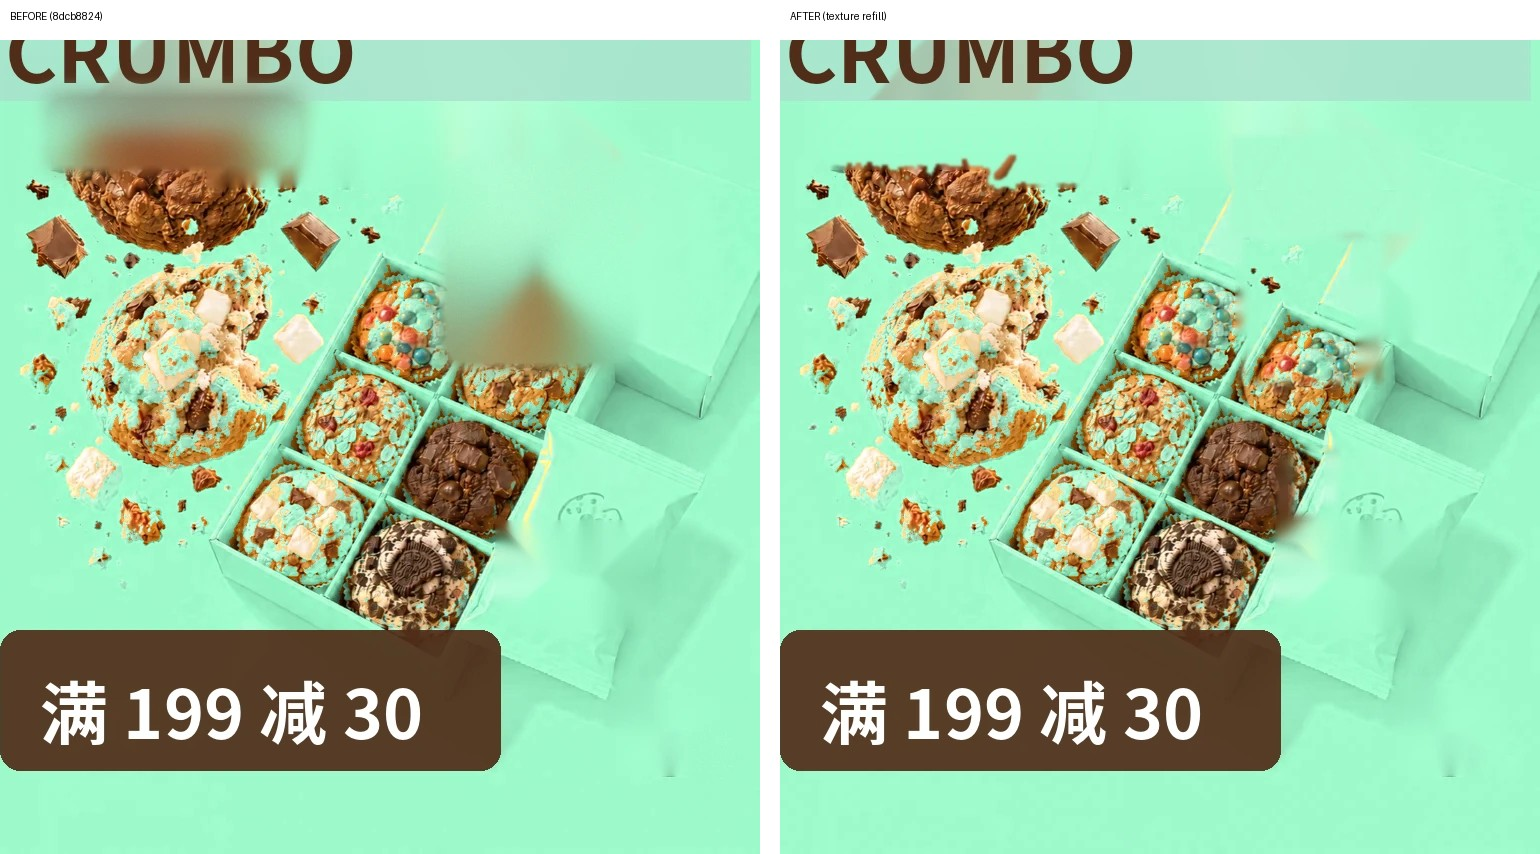
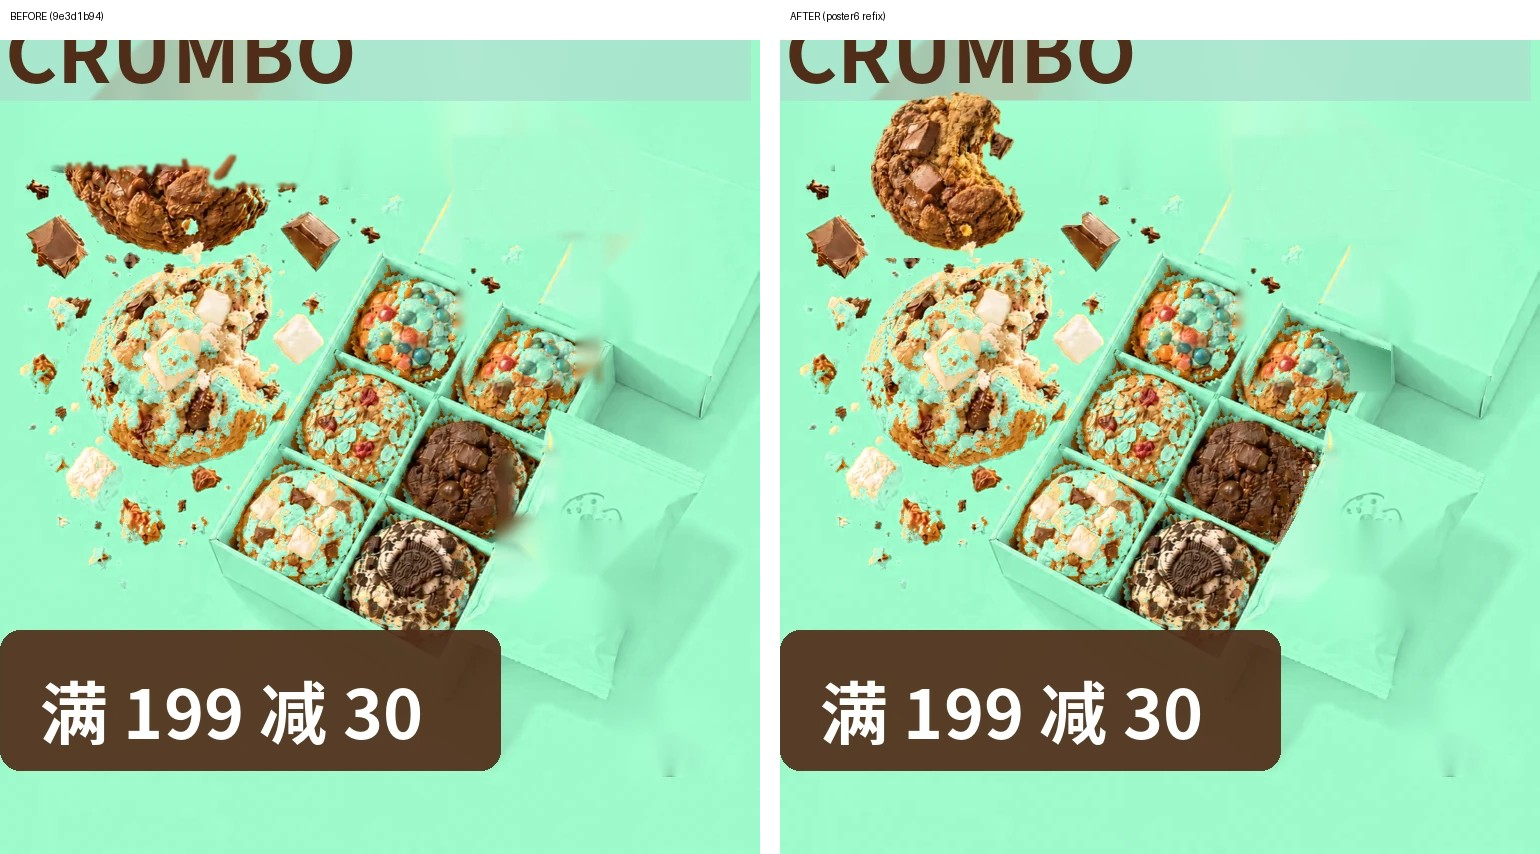
673 promo ex01 poster6: full domed top-left cookie from gold (cookie pixels only), exemplar/plane refill of top-right & chocolate cookie edges, packet and lid smears

diff --git a/docs/design/673/next/p6_fix.py b/docs/design/673/next/p6_fix.py
@@ -1,0 +1,87 @@
+# poster6 only: restore a complete domed top-left cookie from gold pixels (cookie only, no gold copy), mirror-clone soft cookie edges
+import numpy as np,cv2;from PIL import Image
+a=np.array(Image.open('promo_ex01_fixed.png').convert('RGB')).astype(np.float32);g=np.array(Image.open('gold_ex01.png').convert('RGB'))
+H,W=a.shape[:2];rng=np.random.default_rng(7)
+# 1) clear old sliced half + debris to mint (per-row median of clean column band)
+y0,y1,x0,x1=1462,1618,1855,2102
+reg=np.zeros((H,W),bool);reg[y0:y1,x0:x1]=1;reg[1575:,:1895]=0;reg[1585:,2078:]=0
+mint=np.median(a[y0:y1,2125:2200],1)
+for y in range(y0,y1):
+    m=reg[y];a[y,m]=mint[y-y0]+rng.normal(0,1.2,(m.sum(),3))
+# 2) gold cookie mask (brown/cream, not yellow bg, not olive BONBUN letters)
+gc=g[1385:1625,1850:2080];hv=cv2.cvtColor(gc,cv2.COLOR_RGB2HSV)
+yel=(hv[...,0]>=21)&(hv[...,0]<=36)&(hv[...,1]>110)
+m=(~yel).astype(np.uint8)
+m=cv2.morphologyEx(m,cv2.MORPH_OPEN,np.ones((3,3),np.uint8))
+n,l,st,_=cv2.connectedComponentsWithStats(m);k=1+np.argmax(st[1:,4]);m=(l==k).astype(np.uint8)
+cs,_=cv2.findContours(m,cv2.RETR_EXTERNAL,cv2.CHAIN_APPROX_NONE);m=np.zeros_like(m);cv2.drawContours(m,cs,-1,1,-1)
+# drop yellow-ish spill fringe
+m=cv2.erode(m,np.ones((2,2),np.uint8))
+ys,xs=np.nonzero(m);by0,by1,bx0,bx1=ys.min(),ys.max()+1,xs.min(),xs.max()+1
+ck=gc[by0:by1,bx0:bx1].astype(np.float32);mk=m[by0:by1,bx0:bx1].astype(np.float32)
+s=0.74;nw,nh=int(ck.shape[1]*s),int(ck.shape[0]*s)
+ck=cv2.resize(ck,(nw,nh),interpolation=cv2.INTER_AREA);mk=cv2.resize(mk,(nw,nh),interpolation=cv2.INTER_AREA)
+mk=cv2.GaussianBlur(mk,(0,0),0.6)[...,None]
+# despill yellow edge: pull fringe toward mint
+cx,by=1968,1617;px,py=cx-nw//2,by-nh
+a[py:py+nh,px:px+nw]=ck*mk+a[py:py+nh,px:px+nw]*(1-mk)
+print('cookie box',px,py,px+nw,py+nh)
+# 2b) soft contact shadow none (gold has none)
+def exemplar(poly,P=9,R=70,cb=None):
+    """Criminisi-style patch inpaint: fill hand-drawn polygon from best-matching sharp local patches (no blur)."""
+    global a
+    M=np.zeros((H,W),np.uint8);cv2.fillPoly(M,[np.array(poly,np.int32)],1);M=M.astype(bool)
+    ys,xs=np.nonzero(M);Y0,Y1,X0,X1=ys.min()-R,ys.max()+R,xs.min()-R,xs.max()+R
+    A=a[Y0:Y1,X0:X1].copy();m=M[Y0:Y1,X0:X1].copy();h=P//2
+    from numpy.lib.stride_tricks import sliding_window_view as sw
+    valid=~sw(m,(P,P)).any((2,3))
+    if cb is not None:
+        cm=np.zeros(m.shape,bool);cm[max(cb[1]-Y0,0):cb[3]-Y0,max(cb[0]-X0,0):cb[2]-X0]=1;valid&=sw(cm,(P,P)).all((2,3))
+    SW=sw(A,(P,P),axis=(0,1))  # (y,x,3,P,P)
+    vy,vx=np.nonzero(valid);cand=SW[vy,vx]  # N,3,P,P
+    while m.any():
+        k=cv2.filter2D((~m).astype(np.float32),-1,np.ones((P,P)))
+        fr=m&(cv2.dilate((~m).astype(np.uint8),np.ones((3,3)))>0)
+        fy,fx=np.nonzero(fr);t=np.argmax(k[fy,fx]);cy,cx=fy[t],fx[t]
+        cy=np.clip(cy,h,A.shape[0]-h-1);cx=np.clip(cx,h,A.shape[1]-h-1)
+        tp=A[cy-h:cy+h+1,cx-h:cx+h+1].transpose(2,0,1);kn=~m[cy-h:cy+h+1,cx-h:cx+h+1]
+        d=(((cand-tp)**2)*kn).sum((1,2,3));b=np.argmin(d)
+        src=cand[b].transpose(1,2,0);u=m[cy-h:cy+h+1,cx-h:cx+h+1]
+        A[cy-h:cy+h+1,cx-h:cx+h+1][u]=src[u];m[cy-h:cy+h+1,cx-h:cx+h+1]=False
+    a[Y0:Y1,X0:X1]=A
+def planefill(x0,y0,x1,y1,inmask,ring=8,fe=8,crisp=()):
+    """smooth surface (wall/lid/packet face): LSQ colour plane from clean ring + fine grain, feathered except on 'crisp' sides"""
+    Y0,Y1,X0,X1=y0-ring,y1+ring,x0-ring,x1+ring;yy,xx=np.mgrid[Y0:Y1,X0:X1];sub=a[Y0:Y1,X0:X1]
+    inR=inmask(xx,yy)&(xx>=x0)&(xx<x1)&(yy>=y0)&(yy<y1);hv=cv2.cvtColor(np.clip(sub,0,255).astype(np.uint8),cv2.COLOR_RGB2HSV);cl=~inR&inmask(xx,yy)&(hv[...,0]>60)&(hv[...,0]<95)&(hv[...,1]>40)
+    co,*_=np.linalg.lstsq(np.stack([np.ones(cl.sum()),xx[cl],yy[cl]],1),sub[cl],rcond=None)
+    F=np.stack([np.ones_like(xx),xx,yy],-1).astype(np.float32)@co+rng.normal(0,1.0,sub.shape)
+    d=[yy-y0,x1-xx,y1-yy,xx-x0];d=[v for k,v in zip('tRbl',d) if k not in crisp]
+    w=(np.clip(np.minimum.reduce(d)/fe,0,1) if d else 1.0)*inR;sub[:]=F*w[...,None]+sub*(1-w[...,None])
+# 3) top-right cookie right-edge streak: cookie outline ellipse (crisp) + inner cell-wall face plane, wall rim / right wall edge untouched
+ell=lambda xx,yy:((xx-2316)/54.)**2+((yy-1738)/48.)**2>1
+rim=lambda xx:1683+(xx-2340)*0.34
+planefill(2340,1692,2411,1754,lambda xx,yy:ell(xx,yy)&(xx<2411)&(yy>rim(xx)+3),fe=4,crisp='lRt')
+# continue the wall rim line: clone the sharp rim segment along its own direction (+40,+14)
+yy,xx=np.mgrid[1680:1718,2360:2411];bm=(np.abs(yy-rim(xx))<5).astype(np.float32);bm=cv2.GaussianBlur(bm,(0,0),1.0)[...,None]
+a[1680:1718,2360:2411]=a[1666:1704,2320:2371]*bm+a[1680:1718,2360:2411]*(1-bm)
+# 4) chocolate cookie right edge -> packet. packet left edge line E: (2342,1817)-(2322,1865)-(2290,1920)
+E=np.array([(2346,1800),(2342,1817),(2322,1865),(2290,1922)])
+def ex(y): return np.interp(y,E[:,1],E[:,0])
+polyA=[(2292,1806)]+[(int(ex(y))-2,y) for y in range(1806,1906,6)]+[(2290,1906)]
+exemplar(polyA,P=11,R=100,cb=(2195,1785,2300,1905))
+# packet side: smooth packet face -> least-squares colour plane fitted on a clean ring, feathered into the face on top/right/bottom, crisp at the packet edge line
+yy,xx=np.mgrid[1830:1945,2280:2380];e=np.round(ex(yy))
+inR=(xx>=e)&(xx<2358)&(yy>=1842)&(yy<1932)
+cl=(xx>=e+3)&~inR
+X=np.stack([np.ones(cl.sum()),xx[cl],yy[cl]],1);sub=a[1830:1945,2280:2380]
+co,*_=np.linalg.lstsq(X,sub[cl],rcond=None)
+F=np.einsum('yxk,kc->yxc',np.stack([np.ones_like(xx),xx,yy],-1).astype(np.float32),co)+rng.normal(0,1.0,sub.shape)
+w=np.clip(np.minimum.reduce([yy-1842,2358-xx,1932-yy])/10,0,1)*inR
+sub[:]=F*w[...,None]+sub*(1-w[...,None])
+# 5) lid (right-side whitish smear): plane fill
+planefill(2380,1580,2446,1630,lambda xx,yy:np.ones_like(xx,bool),fe=10)
+# 5b) lid whitish smear: clone flat lid from 70px left
+sm=np.zeros((H,W),np.uint8);cv2.fillPoly(sm,[np.array([(2358,1580),(2420,1580),(2420,1604),(2358,1604)],np.int32)],1)
+sm=cv2.GaussianBlur(sm.astype(np.float32),(0,0),1.5)[...,None];sh=np.roll(a,70,1)
+a=sh*sm+a*(1-sm)
+Image.fromarray(np.clip(a,0,255).astype(np.uint8)).save('promo_ex01_p6.png')
